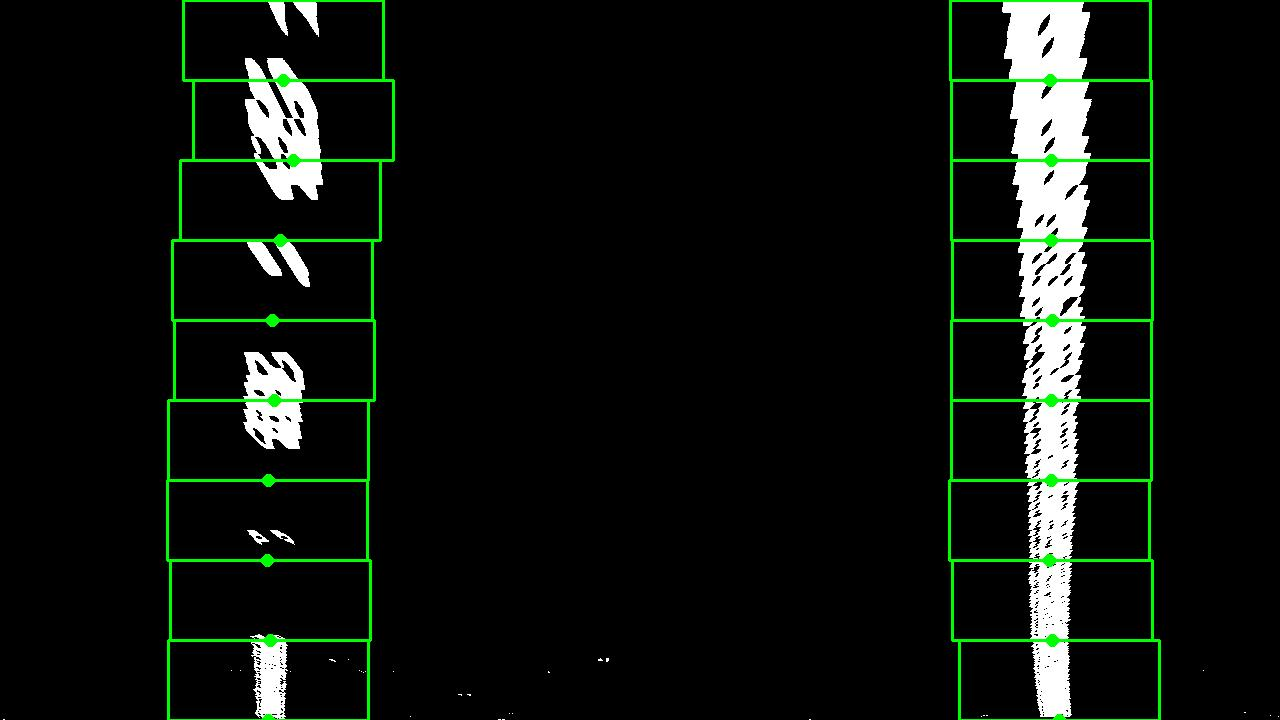
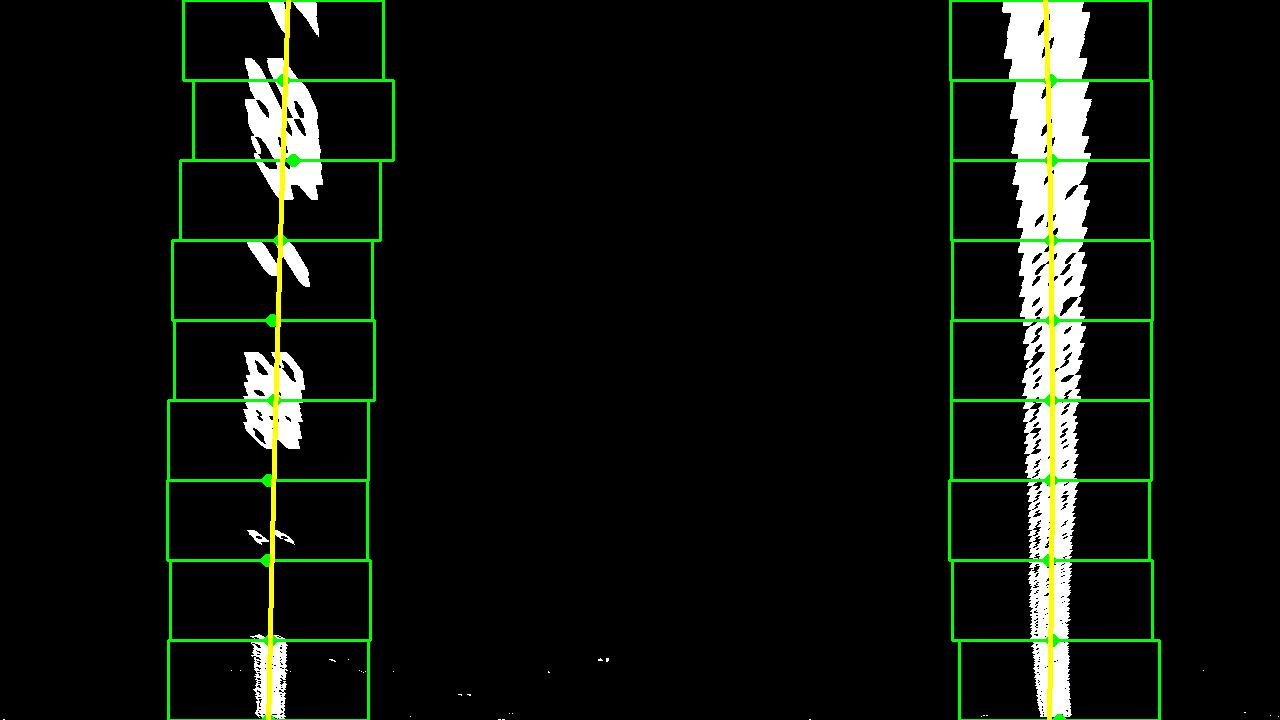
P02 fixed, yellow polygons are drawn onto the images

diff --git a/P02_AdvancedLaneLines/src/preprocess_helpers.py b/P02_AdvancedLaneLines/src/preprocess_helpers.py
@@ -386,6 +386,30 @@ def fit_polynomial(leftx, lefty, rightx, righty, dbg_img, show_dbg=False):
     print('done.')
     return left_fit, right_fit, dbg_img
 
+
+def draw_polys_inplace(left_fit, right_fit, img_to_modify, show_dbg=False):
+    ploty = np.linspace(0, img_to_modify.shape[0] - 1, img_to_modify.shape[0], dtype=int)
+    left_fitx = (left_fit[0] * ploty ** 2 + left_fit[1] * ploty + left_fit[2]).astype(int)
+    right_fitx = (right_fit[0] * ploty ** 2 + right_fit[1] * ploty + right_fit[2]).astype(int)
+
+    left_coords = np.vstack((left_fitx, ploty)).T
+    right_coords = np.vstack((right_fitx, ploty)).T
+    left_pts = left_coords.reshape((-1, 1, 2))
+    right_pts = right_coords.reshape((-1, 1, 2))
+    color = (255, 255, 0)  # yellow
+    isClosed = False
+    thickness = 4
+    cv2.polylines(img_to_modify, [left_pts], isClosed, color, thickness)
+    cv2.polylines(img_to_modify, [right_pts], isClosed, color, thickness)
+
+    if show_dbg:
+        plt.imshow(img_to_modify)
+        plt.title('Polygon(s)')
+        plt.show()
+
+    return img_to_modify
+
+
 #
 # def region_of_interest(img, vertices):
 #     """Applies a mask defined by vertices to an image.

diff --git a/P02_AdvancedLaneLines/src/image_processor.py b/P02_AdvancedLaneLines/src/image_processor.py
@@ -32,7 +32,8 @@ class ImageProcessor:
         #masked = apply_mask(binary, cls.mask)
         birdseye = warp(binary, cls.camera.perspective_matrix, show_dbg and False)
         leftx, lefty, rightx, righty, windows_img = find_lane_pixels(birdseye, show_dbg and False)
-        left_fit, right_fit, poly_img = fit_polynomial(leftx, lefty, rightx, righty, windows_img, show_dbg and False)
+        left_fit, right_fit, colored_lane_pixels = fit_polynomial(leftx, lefty, rightx, righty, windows_img, show_dbg and False)
+        poly_img = draw_polys_inplace(left_fit, right_fit, colored_lane_pixels, show_dbg and True)
 
         return poly_img
 
